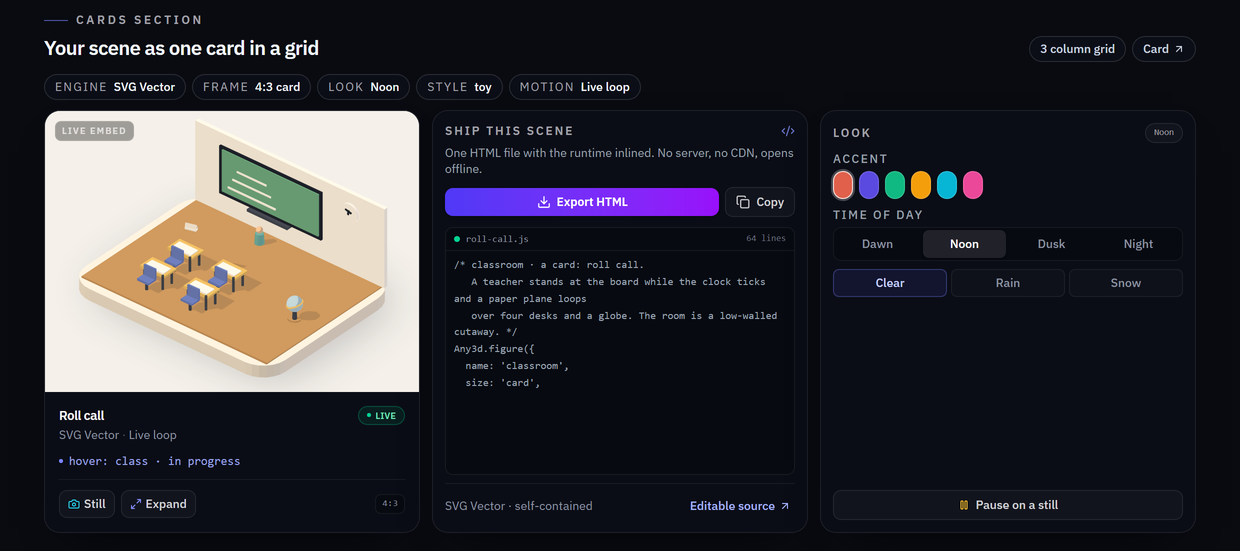
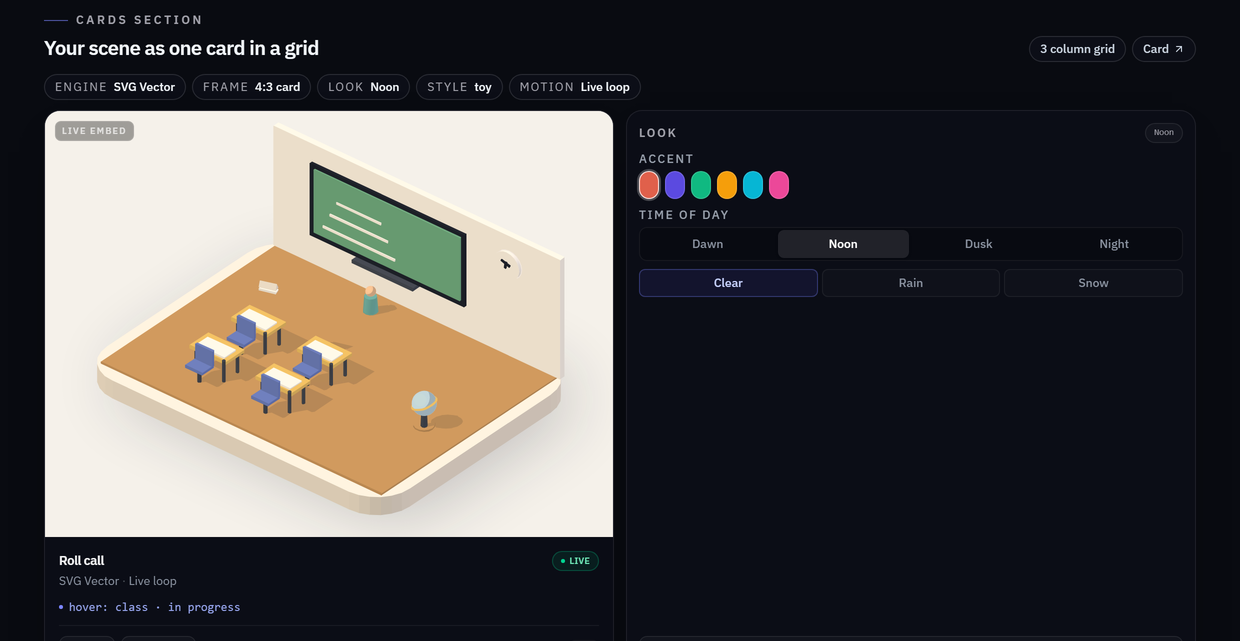
fix(theme): light mode had black holes, and the export was a redundant card
Light mode kept near-black bands under a light page: the workspace toolbar, the
card tiles and the card stage gradient. The surfaces are written with opacity
suffixes (bg-[#0c0e17]/95, bg-zinc-950/90) and the light-theme remap enumerated
exact classes, so any unlisted opacity matched nothing; the stage gradient's
stops (via-[#0a0c13]) were never backgrounds at all.

- the remap now matches on a substring, covers every dark hex family in the app,
  and drops the card stage gradient in light mode
- verify:showcase walks the DOM in light mode and fails on any near-black
  surface bigger than a chip. It reads colours through a canvas because Tailwind
  resolves opacity-modified colours to oklab() - the rgb() regex it started with
  silently skipped exactly the surfaces that were still black

The card presentation also carried a third card, "Ship this scene", with its own
Export HTML, copies and a source peek: all of it repeating the download the
project header already offers, while the hub stage had no export button at all.
The card is gone; the export lives once as an HTML chip in the stage toolbar
next to PNG. The card grid is two tiles.

Guards: verify:showcase asserts the card stage does not duplicate the export,
that the toolbar export produces a standalone stamped file, and that light mode
has no black surfaces (mutation-tested: with the remap narrowed it fails on the
toolbar, the chat composer and the stage header). Stills re-shot for the two-tile
[…]

diff --git a/src/components/PresentationViews.tsx b/src/components/PresentationViews.tsx
@@ -1,15 +1,5 @@
 import * as React from 'react';
-import {
-  ArrowUpRight,
-  Camera,
-  Check,
-  Code2,
-  Copy,
-  Download,
-  Maximize2,
-  Pause,
-  Play,
-} from 'lucide-react';
+import { ArrowUpRight, Camera, Maximize2, Pause, Play } from 'lucide-react';
 import { LOOK_STOPS, lookLabel, nearestStop, type SceneLook } from '../lib/look';
 import type { RenderFormat, SVGTheme, WebPresentationSize, WorldFinish } from '../types';
 
@@ -269,137 +259,6 @@ export function SceneSpecStrip({
         </span>
       ))}
     </div>
-  );
-}
-
-interface ShipCardProps {
-  code: string;
-  format: RenderFormat;
-  sceneName: string;
-  /** Short stages show fewer source lines so the card keeps fitting. */
-  compact?: boolean;
-  onExportHtml?: () => void;
-  /** Jump to the editable source; the footer link is inert without it. */
-  onOpenCode?: () => void;
-}
-
-/**
- * The card that belongs next to the live preview: what to do with the scene.
- * One primary action (export the standalone file), a copy action, and a scoped
- * look at the source that produced the image, so the output stays the subject.
- */
-export function ShipCard({ code, format, sceneName, compact = false, onExportHtml, onOpenCode }: ShipCardProps) {
-  const [copied, setCopied] = React.useState(false);
-  const lines = React.useMemo(() => (code || '').split('\n').filter((line) => line.trim().length > 0), [code]);
-  const previewCount = compact ? 6 : 10;
-  // Dedent the peek so its first characters are the scene's structure, not the
-  // shared indentation of the whole file.
-  const preview = React.useMemo(() => {
-    const head = lines.slice(0, previewCount);
-    const indent = head
-      .filter((line) => line.trim())
-      .reduce((min, line) => Math.min(min, line.length - line.trimStart().length), Number.POSITIVE_INFINITY);
-    const cut = Number.isFinite(indent) ? indent : 0;
-    return head.map((line) => line.slice(cut));
-  }, [lines, previewCount]);
-  const meta = FORMAT_META[format];
-
-  React.useEffect(() => {
-    if (!copied) return;
-    const timer = window.setTimeout(() => setCopied(false), 1600);
-    return () => window.clearTimeout(timer);
-  }, [copied]);
-
-  const copy = async () => {
-    const fallback = () => {
-      // Clipboard permissions are not always granted (insecure origin, embedded
-      // preview); a hidden textarea still copies on a real user gesture.
-      try {
-        const area = document.createElement('textarea');
-        area.value = code;
-        area.setAttribute('readonly', '');
-        area.style.position = 'fixed';
-        area.style.opacity = '0';
-        document.body.appendChild(area);
-        area.select();
-        const ok = document.execCommand('copy');
-        document.body.removeChild(area);
-        setCopied(ok);
-      } catch {
-        setCopied(false);
-      }
-    };
-    try {
-      await navigator.clipboard.writeText(code);
-      setCopied(true);
-    } catch {
-      fallback();
-    }
-  };
-
-  return (
-    <article className="flex h-full flex-col overflow-hidden rounded-2xl border border-[rgba(255,255,255,0.08)] bg-[#0b0d16] p-3 shadow-[0_18px_40px_-24px_rgba(0,0,0,0.9)]">
-      <div className="flex items-center justify-between gap-2">
-        <h3 className="text-[11px] font-semibold uppercase tracking-[0.16em] text-[#a1a1aa]">Ship this scene</h3>
-        <Code2 className="h-3.5 w-3.5 text-[rgba(129,140,248,0.8)]" />
-      </div>
-
-      <p className="mt-1.5 text-[11px] leading-relaxed text-[#98a0ac]">
-        One HTML file with the runtime inlined. No server, no CDN, opens offline.
-      </p>
-
-      <div className="mt-2.5 flex items-center gap-1.5">
-        <button
-          type="button"
-          onClick={onExportHtml}
-          disabled={!onExportHtml || !code}
-          className="inline-flex flex-1 items-center justify-center gap-1.5 rounded-lg bg-gradient-to-r from-indigo-600 to-purple-600 px-2.5 py-1.5 text-[11px] font-semibold text-[#ffffff] shadow-sm transition hover:from-indigo-500 hover:to-purple-500 active:scale-[0.99] disabled:cursor-not-allowed disabled:opacity-45 cursor-pointer"
-        >
-          <Download className="h-3.5 w-3.5" />
-          Export HTML
-        </button>
-        <button
-          type="button"
-          onClick={() => void copy()}
-          className="inline-flex items-center justify-center gap-1.5 rounded-lg border border-[rgba(255,255,255,0.08)] bg-[rgba(255,255,255,0.03)] px-2.5 py-1.5 text-[11px] font-medium text-[#d4d4d8] transition hover:bg-[rgba(255,255,255,0.07)] hover:text-[#ffffff] active:scale-[0.99] cursor-pointer"
-        >
-          {copied ? <Check className="h-3.5 w-3.5 text-[#34d399]" /> : <Copy className="h-3.5 w-3.5" />}
-          {copied ? 'Copied' : 'Copy'}
-        </button>
-      </div>
-
-      <div className="mt-2.5 flex min-h-0 flex-1 flex-col overflow-hidden rounded-lg border border-[rgba(255,255,255,0.07)] bg-[#080a11]">
-        <div className="flex items-center gap-1.5 border-b border-[rgba(255,255,255,0.06)] px-2 py-1">
-          <span className={`h-1.5 w-1.5 rounded-full ${meta.dot}`} />
-          <span className="truncate font-mono text-[9.5px] text-[#8b93a1]">
-            {sceneName ? sceneName.toLowerCase().replace(/[^a-z0-9]+/g, '-').replace(/^-|-$/g, '') : 'scene'}.js
-          </span>
-          <span className="ml-auto font-mono text-[9px] text-[#6b7280]">{lines.length} lines</span>
-        </div>
-        <div className="relative min-h-0 flex-1 overflow-hidden px-2 py-1.5 font-mono text-[10.5px] leading-[1.6] text-[#9aa4b2]">
-          <span className="pointer-events-none absolute inset-x-0 bottom-0 z-10 h-6 bg-gradient-to-t from-[#080a11] to-transparent" />
-          {preview.map((line, index) => (
-            <div key={index} className="whitespace-pre-wrap break-words">
-              {line || ' '}
-            </div>
-          ))}
-        </div>
-      </div>
-
-      <div className="mt-2 flex items-center justify-between gap-2 border-t border-[rgba(255,255,255,0.06)] pt-2 text-[10px] text-[#8b93a1]">
-        <span>{meta.label} · self-contained</span>
-        <button
-          type="button"
-          onClick={onOpenCode}
-          disabled={!onOpenCode}
-          title={onOpenCode ? 'Open the scene source in the code editor' : 'Code editing is unavailable here'}
-          className="inline-flex items-center gap-1 rounded-md px-1 py-0.5 text-[10px] font-medium text-[#a5b4fc] transition hover:bg-[rgba(255,255,255,0.06)] hover:text-[#c7d2fe] disabled:cursor-default disabled:opacity-60 cursor-pointer"
-        >
-          Editable source
-          <ArrowUpRight className="h-3 w-3" />
-        </button>
-      </div>
-    </article>
   );
 }
 

diff --git a/src/index.css b/src/index.css
@@ -280,44 +280,52 @@
 }
 
 /* The app uses utility classes for layout; these tokens keep its existing
-   component surfaces consistent while allowing a complete light theme. */
-[data-theme='light'] [class~="bg-[#090b11]"],
-[data-theme='light'] [class~="bg-[#090b11]/90"],
-[data-theme='light'] [class~="bg-[#0b0d14]"],
-[data-theme='light'] [class~="bg-[#08090f]"],
-[data-theme='light'] [class~="bg-[#07080d]"],
-[data-theme='light'] [class~="bg-[#090a10]"] {
+   component surfaces consistent while allowing a complete light theme.
+
+   These match on a substring, not on an exact class: the surfaces are written
+   with opacity suffixes (`bg-[#0c0e17]/95`, `bg-zinc-950/90`) and every extra
+   opacity that was not enumerated stayed black in light mode — the workspace
+   toolbar was the visible one. Substring selectors cover any suffix. */
+[data-theme='light'] [class*="bg-[#090b11]"],
+[data-theme='light'] [class*="bg-[#08090f]"],
+[data-theme='light'] [class*="bg-[#07080d]"],
+[data-theme='light'] [class*="bg-[#090a10]"] {
   background-color: var(--app-bg);
 }
 
-[data-theme='light'] [class~="bg-[#0c0e17]"],
-[data-theme='light'] [class~="bg-[#0c0e17]/90"],
-[data-theme='light'] [class~="bg-[#0d0f18]"],
-[data-theme='light'] [class~="bg-[#0d0f18]/90"],
-[data-theme='light'] [class~="bg-[#0d0f1a]"],
-[data-theme='light'] [class~="bg-[#0e101a]"],
-[data-theme='light'] [class~="bg-[#10131f]"] {
+[data-theme='light'] [class*="bg-[#0c0e17]"],
+[data-theme='light'] [class*="bg-[#0d0f18]"],
+[data-theme='light'] [class*="bg-[#0d0f1a]"],
+[data-theme='light'] [class*="bg-[#0e101a]"],
+[data-theme='light'] [class*="bg-[#0e1119]"],
+[data-theme='light'] [class*="bg-[#10131f]"],
+[data-theme='light'] [class*="bg-[#0b0d16]"],
+[data-theme='light'] [class*="bg-[#0b0d14]"],
+[data-theme='light'] [class*="bg-[#11141f]"],
+[data-theme='light'] [class*="bg-[#111422]"],
+[data-theme='light'] [class*="bg-[#080a11]"],
+[data-theme='light'] [class*="bg-[#05070d]"] {
   background-color: var(--surface-primary);
 }
 
-[data-theme='light'] [class~="bg-[#0a0c13]"],
-[data-theme='light'] [class~="bg-[#0a0c13]/80"],
-[data-theme='light'] [class~="bg-[#111320]"] {
+[data-theme='light'] [class*="bg-[#0a0c13]"],
+[data-theme='light'] [class*="bg-[#111320]"] {
   background-color: var(--surface-secondary);
 }
 
-[data-theme='light'] [class~="bg-[#121422]"],
-[data-theme='light'] [class~="bg-[#11131f]/90"],
-[data-theme='light'] [class~="bg-zinc-950/80"],
-[data-theme='light'] [class~="bg-zinc-950/70"],
-[data-theme='light'] [class~="bg-zinc-950/60"],
-[data-theme='light'] [class~="bg-zinc-950"],
-[data-theme='light'] [class~="bg-zinc-900/90"],
-[data-theme='light'] [class~="bg-zinc-900/80"],
-[data-theme='light'] [class~="bg-zinc-900/60"],
-[data-theme='light'] [class~="bg-zinc-900"],
-[data-theme='light'] [class~="bg-zinc-800"] {
+[data-theme='light'] [class*="bg-[#121422]"],
+[data-theme='light'] [class*="bg-[#11131f]"],
+[data-theme='light'] [class*="bg-zinc-950"],
+[data-theme='light'] [class*="bg-zinc-900"],
+[data-theme='light'] [class*="bg-zinc-800"] {
   background-color: var(--surface-raised);
+}
+
+/* The card stage paints a dark radial gradient behind the tiles. In light mode
+   the gradient stops are utility classes, not backgrounds, so the palette stayed
+   near-black under a light page. */
+[data-theme='light'] [class*="bg-[radial-gradient"] {
+  background-image: none;
 }
 
 [data-theme='light'] [class~="bg-white/[0.02]"],

diff --git a/src/components/SandboxPreview.tsx b/src/components/SandboxPreview.tsx
@@ -23,7 +23,7 @@ import {
 } from 'lucide-react';
 import { RenderFormat, SVGTheme, WorldFinish, WebPresentationSize } from '../types';
 import { GenerationPlayground } from './GenerationPlayground';
-import { CardSectionHeader, HeroSiteChrome, LiveCardBody, LookCard, SceneSpecStrip, ShipCard } from './PresentationViews';
+import { CardSectionHeader, HeroSiteChrome, LiveCardBody, LookCard, SceneSpecStrip } from './PresentationViews';
 import { convertAny3dToThree, exportThreeToGlb, downloadGlbFile } from '../lib/glbExporter';
 import { recordSceneFromIframe } from '../lib/turntable';
 import { LookScrubber } from './LookScrubber';
@@ -103,7 +103,6 @@ function SandboxPreviewInner({
   untrusted = false,
   code = '',
   onExportHtml,
-  onOpenCode,
   camera,
   onCameraChange,
 }: SandboxPreviewProps, ref: React.Ref<SandboxPreviewHandle>) {
@@ -804,6 +803,20 @@ function SandboxPreviewInner({
                 <span className="text-[11px] hidden sm:inline">AnyStack</span>
               </button>
 
+              {/* Standalone HTML Export — the same action the project header offers,
+                  kept here so the hub stage has one too. */}
+              {onExportHtml && (
+                <button
+                  onClick={onExportHtml}
+                  disabled={!code}
+                  title="Download standalone offline HTML (runtime inlined)"
+                  className="flex items-center gap-1 px-2.5 py-1 rounded-xl text-xs font-medium bg-zinc-900/90 hover:bg-zinc-800 border border-white/[0.08] text-zinc-300 hover:text-white transition cursor-pointer active:scale-95 disabled:opacity-40 disabled:cursor-not-allowed shrink-0"
+                >
+                  <Download className="w-3.5 h-3.5 text-emerald-400" />
+                  <span className="text-[11px] hidden sm:inline">HTML</span>
+                </button>
+              )}
+
               {/* Snapshot PNG Button */}
               <button
                 onClick={handleSnapshotPng}
@@ -915,7 +928,7 @@ function SandboxPreviewInner({
             className={
               currentSize === 'hero'
                 ? 'absolute inset-0 z-0'
-                : 'grid grid-cols-1 gap-3 @md:grid-cols-2 @4xl:grid-cols-3'
+                : 'grid grid-cols-1 gap-3 @md:grid-cols-2'
             }
           >
             <article
@@ -971,16 +984,6 @@ function SandboxPreviewInner({
               )}
             </article>
 
-            {currentSize === 'card' && (
-              <ShipCard
-                code={code}
-                format={format}
-                sceneName={sceneName}
-                compact={stageHeight > 0 && stageHeight < 820}
-                onExportHtml={onExportHtml}
-                onOpenCode={onOpenCode}
-              />
-            )}
             {currentSize === 'card' && (
               <LookCard
                 accent={accentColor}

diff --git a/src/components/ProjectPage.tsx b/src/components/ProjectPage.tsx
@@ -1034,7 +1034,6 @@ export const ProjectPage: React.FC<ProjectPageProps> = ({
                 onSizeChange={handleSizeChange}
                 code={code}
                 onExportHtml={onExportHtml}
-                onOpenCode={() => setStage('code')}
               />
             ) : (
               <div className="h-full flex flex-col items-center justify-center gap-3 text-center px-8">

diff --git a/src/App.tsx b/src/App.tsx
@@ -1685,7 +1685,6 @@ export function App() {
                         onCameraChange={setStageCamera}
                         code={code}
                         onExportHtml={handleExportHtml}
-                        onOpenCode={() => setStageView('code')}
                       />
                     </div>
                   )}

diff --git a/README.md b/README.md
@@ -233,7 +233,7 @@ Switch between **Hero** and **Card** with one click in the prompt bar or toolbar
 
 Twelve captures taken straight from the running studio with `node scripts/showcase.mjs` — no retouching, no mock layout:
 
-- **Six hero sections** (full-bleed banner: nav, one headline, one CTA) and **six card sections** (a live 4:3 card in a responsive grid, beside a *Ship this scene* card with an Export HTML CTA and a peek at the generated source, and the look controls). The scene spec rides as quiet chips in the section header instead of competing with the output.
+- **Six hero sections** (full-bleed banner: nav, one headline, one CTA) and **six card sections** (a live 4:3 card in a responsive grid beside the look controls). The export lives once, in the stage toolbar next to the PNG snapshot — it used to be a third card called *Ship this scene*, which only repeated the download the project header already offers. The scene spec rides as quiet chips in the section header instead of competing with the output.
 - Each presentation mixes **four presets** with **two prompt-only scenes that are not in the preset library** (night market, glacier lighthouse, rooftop greenhouse, coral nursery). Those four were typed as prompts and generated end to end, which is how the framing and coverage bugs below were caught.
 - Two hero banners are looping GIFs because their motion is the point: crane travel on the harbour, lantern sway in the night market. Everything else is a still.
 
@@ -326,6 +326,8 @@ The two prompt-only worlds per presentation were sent through the same `POST /ap
 | The camera menu (isometric / top / front / side) changed its own label and nothing else: the world bench dropped `camera` messages too, and the SVG runtime had no runtime camera at all. | Worlds accept `{ az, el, dist }` and refit; SVG gained `ctx.setCamera` that sets the rest angle and refits the frustum; *Isometric View* restores each scene's authored angle; the control is hidden for the pixel engine, which has no camera. Guarded by three checks (`world camera presets apply`, `svg camera presets apply`, `camera hidden for the 2D engines`). |
 | Reopening a project — a reload, a link opened on a phone — restored the transcript and the 121-line scene but never rebuilt the bundle, because the bundled html lives in memory only and the deep-link effect skipped out as soon as the session was already current. The preview pane insisted "your scene will appear here as soon as the first generation finishes" above a valid scene, and every capture action was disabled. | The deep-link effect now rebuilds the bundle whenever the page has code but nothing to show for it, while leaving a live session's frame alone. `verify-storyboard.mjs` opens the same scene on a 414×900 phone and fails without the fix (no iframe, empty preview). |
 | The capture chips (Clip, Storyboard) collapse below `md`, and the narrow-screen actions menu only offered theme, settings, seed, compare and GLB — so a phone had no way to record a clip or build a sheet. | Both controls render a full-width `variant="menu"` row inside that menu, and `verify-storyboard.mjs` builds a sheet from the phone menu (20 checks). |
+| Light mode kept black holes: the workspace toolbar, the card tiles and the card stage gradient stayed near-black under a light page. The surface classes are written with opacity suffixes (`bg-[#0c0e17]/95`, `bg-zinc-950/90`) and the light-theme remap enumerated exact classes, so anything with an unlisted opacity matched nothing; the stage gradient's stops (`via-[#0a0c13]`) were not backgrounds at all. | The remap now matches on a substring, covers every dark hex family in the app, and drops the gradient in light mode. `verify:showcase` walks the DOM in light mode and fails on any near-black surface bigger than a chip — reading colours through a canvas, because Tailwind resolves opacity-modified colours to `oklab()` and an `rgb()` regex silently skipped exactly the surfaces that were still black. |
+| The card presentation carried a third card, *Ship this scene*, with its own Export HTML button, a copy button and a peek at the source — all of it repeating the download the project header already offers, and the hub stage had no export button of its own. | The card is gone. The export lives once, as an `HTML` chip in the stage toolbar next to `PNG`, so both the hub and the project page reach the same action; the card grid is two tiles, and `verify:showcase` fails if an export panel reappears inside the card stage. |
 | The storyboard was only reachable from the studio hub's stage toolbar, so a user working in a project — where every other capture action lives — had no way to make a sheet. | The control sits in the project page header next to the clip button, and `verify-storyboard.mjs` now runs the whole flow there (20 checks, desktop and phone) while still asserting the hub entry survives. |
 | The storyboard sheet ignored the frame the user set up: it always drew the same four angles whatever the presentation or the camera pick, and it rasterised whichever `<svg>` the stage held first — a stale mount — so tiles could repeat a neighbour instead of showing their own angle. | Tiles mount at the chosen presentation size, `storyboardAngles` leads with the user's own angle when they picked one (`Your angle · Turned left · Turned right · Lower/Higher angle`), each tile is rasterised from the mount it just made, and the burned-in labels name the angles that were actually rendered. Guarded by `scripts/test-storyboard.ts` (16 checks in `npm test`) and `scripts/verify-storyboard.mjs` (20 checks in CI). |
 | The camera pick was studio-only: the menu moved the live stage, but the exported file reopened at the angle the scene was authored for, and a share link forgot it entirely. | The pick is lifted to the app (`CameraPick` in `src/lib/camera.ts`), rides `POST /api/bundle` into the file (`window.__any3dCamera` for SVG, `initialCamera` for worlds) and into `ScenePayload.camera`, and a pick that cannot be applied is dropped instead of reaching `setCamera`. Guarded by `scripts/verify-export-camera.mjs` (11 checks) and three payload round-trip assertions. |
@@ -343,7 +345,7 @@ CI keeps this honest:
 
 | Workflow | What it does |
 |---|---|
-| `.github/workflows/ci.yml` | `npm test`, `tsc --noEmit`, `npm run build`, then boots the API and app and runs `npm run verify:showcase` — the presentation invariants (frame survives Hero ↔ Card, card CTA exports and copies, *Editable source* opens the editor, pixel art fills its frame, console clean) — plus the contract walks for each kernel (`verify:pixel-finish`, `verify:svg-api`, `verify:pixel-api`, `verify:worlds-api`), `npm run verify:camera` for the camera an export carries, `npm run verify:storyboard` for the storyboard framing on the project page, and `npm run verify:fidelity` to re-shoot the README stills. |
+| `.github/workflows/ci.yml` | `npm test`, `tsc --noEmit`, `npm run build`, then boots the API and app and runs `npm run verify:showcase` — the presentation invariants (frame survives Hero ↔ Card, the card stage does not duplicate the toolbar's export, the stage toolbar exports a standalone file, light mode has no black surfaces, pixel art fills its frame, console clean) — plus the contract walks for each kernel (`verify:pixel-finish`, `verify:svg-api`, `verify:pixel-api`, `verify:worlds-api`), `npm run verify:camera` for the camera an export carries, `npm run verify:storyboard` for the storyboard framing on the project page, and `npm run verify:fidelity` to re-shoot the README stills. |
 | `.github/workflows/showcase.yml` | Weekly / on demand: re-captures all twelve scenes with `showcase:gifs`, uploads them as an artifact, and commits the refreshed images only when `commit_images` is set. |
 
 ---
